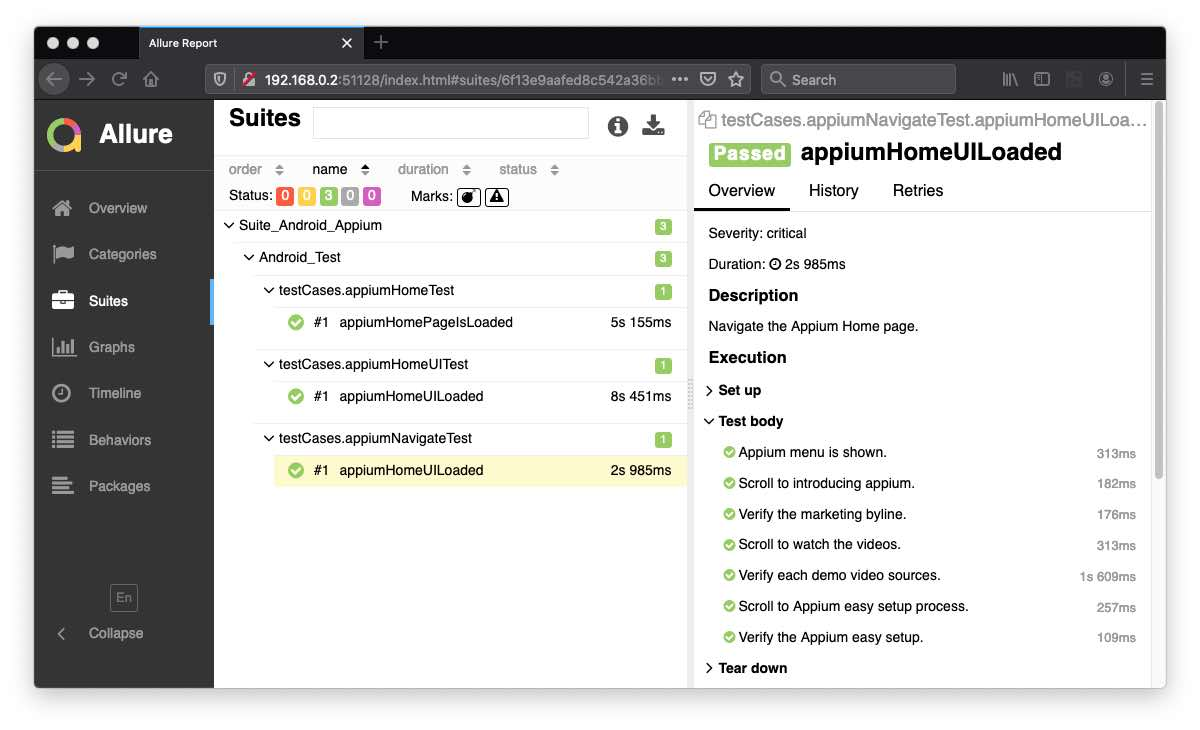
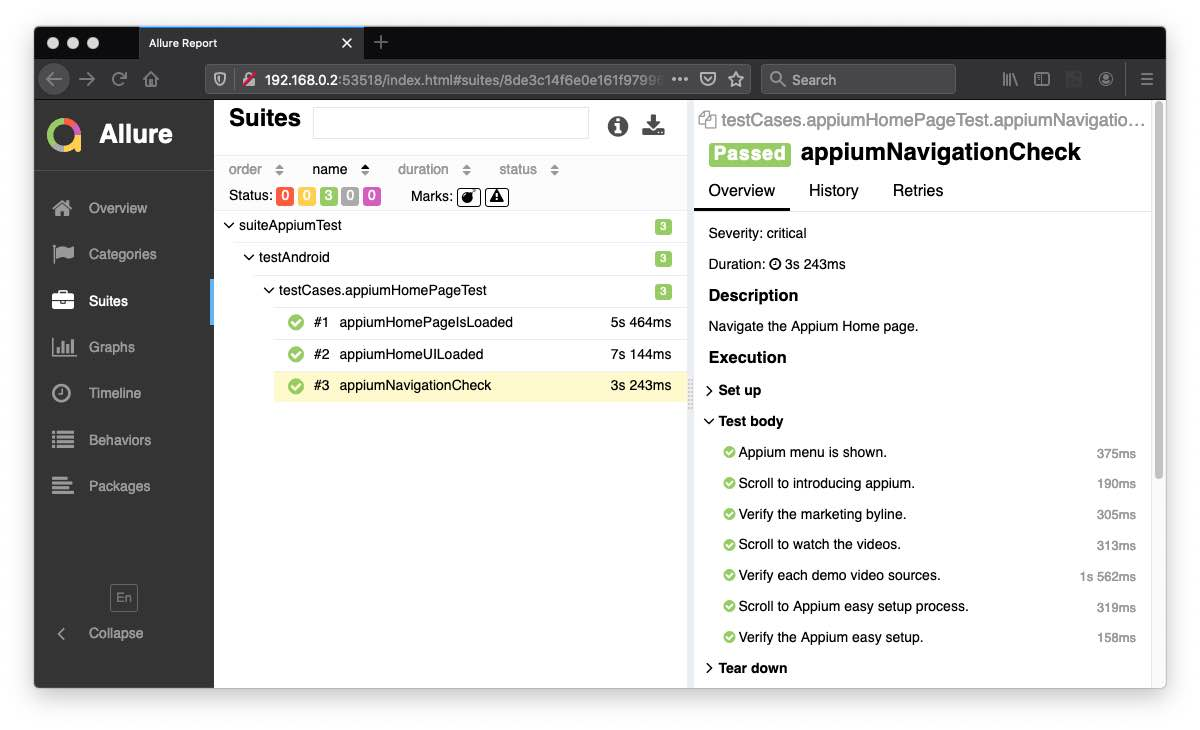
fixed test case structure

diff --git a/androidAppiumTest/src/test/java/testCases/appiumHomePageTest.java b/androidAppiumTest/src/test/java/testCases/appiumHomePageTest.java
@@ -1,0 +1,65 @@
+package testCases;
+ 
+import org.testng.annotations.Test;
+
+import io.qameta.allure.Description;
+import io.qameta.allure.Feature;
+import io.qameta.allure.Severity;
+import io.qameta.allure.SeverityLevel;
+
+import mainPages.appiumHomePage;
+import mainPages.appiumHomeUIPage;
+import mainPages.appiumNavigatePage;
+ 
+public class appiumHomePageTest extends baseTest{
+	
+	@Test (priority = 0)
+	@Severity (SeverityLevel.CRITICAL) // BLOCKER, CRITICAL, NORMAL, MINOR, TRIVIAL
+	@Feature ("Appium Home Page")
+	@Description ("The Appium Home Page is loaded.")
+    public void appiumHomePageIsLoaded () {
+ 
+        //*************PAGE INSTANTIATIONS*************
+		appiumHomePage appiumHomeTest = new appiumHomePage(mobiledriver);
+ 
+        //*************PAGE METHODS********************
+		appiumHomeTest.launch_appium_home_page();
+		appiumHomeTest.check_title_of_page();
+    }
+	
+	@Test (priority = 1)
+	@Severity (SeverityLevel.CRITICAL) // BLOCKER, CRITICAL, NORMAL, MINOR, TRIVIAL
+	@Feature ("Appium Home Page")
+	@Description ("The Appium Home UI are loaded.")
+    public void appiumHomeUILoaded () throws InterruptedException {
+ 
+        //*************PAGE INSTANTIATIONS*************
+		appiumHomeUIPage appiumHomeUITest = new appiumHomeUIPage(mobiledriver);
+ 
+        //*************PAGE METHODS********************
+		appiumHomeUITest.appium_menu_toolbar_is_shown();
+		appiumHomeUITest.click_on_hamburger_icon_to_expand();
+		appiumHomeUITest.hover_over_each_hamburger_menu_option();
+		appiumHomeUITest.click_on_hamburger_icon_to_close();
+		appiumHomeUITest.appium_download_button_is_shown();
+    }
+	
+	@Test (priority = 2)
+	@Severity (SeverityLevel.CRITICAL) // BLOCKER, CRITICAL, NORMAL, MINOR, TRIVIAL
+	@Feature ("Appium Home Page")
+	@Description ("Navigate the Appium Home page.")
+    public void appiumNavigationCheck () throws InterruptedException {
+ 
+        //*************PAGE INSTANTIATIONS*************
+		appiumNavigatePage appiumNavigateTest = new appiumNavigatePage(mobiledriver);
+ 
+        //*************PAGE METHODS********************
+		appiumNavigateTest.appium_menu_toolbar_is_shown();
+		appiumNavigateTest.scroll_to_introducing_appium();
+		appiumNavigateTest.verify_marketing_byline();
+		appiumNavigateTest.scroll_to_watch_the_videos();
+		appiumNavigateTest.verify_demo_videos();
+		appiumNavigateTest.scroll_to_appium_setup();
+		appiumNavigateTest.verify_appium_setup();
+    }
+}
